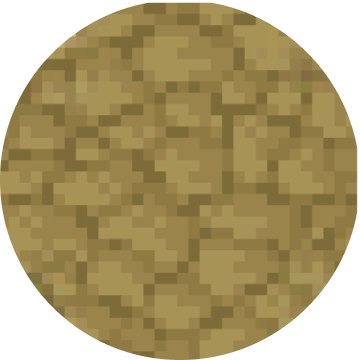
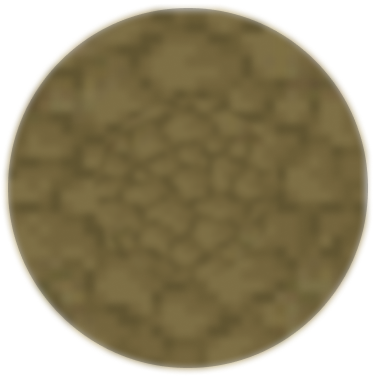
Animando char e background no menu. transiçao funfou

diff --git a/TheBlindMaze.playground/Sources/MenuScene.swift b/TheBlindMaze.playground/Sources/MenuScene.swift
@@ -2,15 +2,136 @@ import Foundation
 import SpriteKit
 
 public class MenuScene: SKScene{
-
-    let menuBackground = SKSpriteNode(imageNamed: "MenuBackground.png")
     
+    let menuBackground = SKSpriteNode(imageNamed: "MenuBackground.png")
+    var changeBackground: [SKTexture] = []
+    
+    let nameLabel = SKLabelNode()
+    
+    let startButton = SKShapeNode()
+    let startButtonLabel = SKLabelNode()
+    
+    var char = SKSpriteNode(imageNamed: "CharLeft1.png")
+    var charWalk: [SKTexture] = []
     
     override public func didMove(to view: SKView) {
-
+        super.didMove(to: view)
+        
+        self.menuBackground.scale(to: CGSize(width: 700, height: 625))
+        self.menuBackground.anchorPoint = CGPoint(x:0, y:0)
+        self.menuBackground.position = CGPoint(x:0, y:0)
+        self.addChild(menuBackground)
+        
+        self.char.scale(to: CGSize(width: 90, height: 90))
+        self.char.anchorPoint = CGPoint(x:0, y:0)
+        self.char.position = CGPoint(x: 5, y: 110)
+        self.addChild(char)
+        
+        createLabel()
+        createButton()
+        animateChar()
+        animateBackground()
         
     }
     
+    override public func touchesEnded(_ touches: Set<UITouch>, with event: UIEvent?) {
+        let touch = touches.first
+        let touchLocation = touch!.location(in: self)
+        
+        if self.startButton.contains(touchLocation) {
+            let sceneMoveTo = GameScene(size: self.size)
+            sceneMoveTo.scaleMode = self.scaleMode
+            
+            let transition = SKTransition.moveIn(with: .down, duration: 0.3)
+            self.scene?.view?.presentScene(sceneMoveTo ,transition: transition)
+            
+        }
+        
+    }
     
+    func createLabel(){
+        let paragraphStyle = NSMutableParagraphStyle()
+        paragraphStyle.alignment = .center
+        paragraphStyle.lineBreakMode = .byWordWrapping
+        
+        let pixeledFont = UIFont(name: "Pixeled", size: 50)
+        
+        let nameString = NSMutableAttributedString(string: "THE BLIND MAZE", attributes: [NSMutableAttributedString.Key.font : pixeledFont ?? UIFont.systemFont(ofSize: 50, weight: .ultraLight), .foregroundColor: #colorLiteral(red: 0.6000000238, green: 0.6000000238, blue: 0.6000000238, alpha: 1)])
+        
+        self.nameLabel.attributedText = nameString
+        self.nameLabel.position = CGPoint(x: self.frame.midX, y: self.frame.midY)
+        self.addChild(nameLabel)
+        
+    }
+    
+    func createButton(){
+        let pixeledFont = UIFont(name: "Pixeled", size: 20)
+
+        let startButtonString = NSMutableAttributedString(string: "START", attributes: [NSMutableAttributedString.Key.font : pixeledFont ?? UIFont.systemFont(ofSize: 20, weight: .ultraLight), .foregroundColor : #colorLiteral(red: 1.0, green: 1.0, blue: 1.0, alpha: 1.0)])
+        
+        self.startButton.path = UIBezierPath(roundedRect: CGRect(x: 0, y: 0, width: 200, height: 50), cornerRadius: 20).cgPath
+        self.startButton.position = CGPoint(x:self.frame.midX - 100, y:self.frame.midY - 300)
+        self.startButton.fillColor = .black
+        self.startButton.lineWidth = 1
+        self.startButton.strokeColor = #colorLiteral(red: 0.6000000238, green: 0.6000000238, blue: 0.6000000238, alpha: 1)
+        
+        self.startButtonLabel.attributedText = startButtonString
+        self.startButtonLabel.position = CGPoint(x: startButton.frame.midX, y: startButton.frame.midY - 15)
+        
+        self.addChild(startButton)
+        self.addChild(startButtonLabel)
+    }
+    
+    func animation(prefix1: String, prefix2: String, ids: [Int]) -> [SKTexture]{
+        
+        var frames: [SKTexture] = []
+        
+        for i in ids {
+            let pose = SKTexture(imageNamed: "\(prefix1)\(i)")
+            frames.append(pose)
+        }
+        
+        for i in ids {
+            let pose = SKTexture(imageNamed: "\(prefix2)\(i)")
+            frames.append(pose)
+        }
+        
+        return frames
+        
+    }
+    
+    func animateChar(){
+        
+        let ids = [1,2,1,3,1,2,1,3,1,2,1,3,1,2,1,3,1,2,1,3,1,2,1,3,1,2,1,3,1,2,1,3]
+                
+        self.charWalk = animation(prefix1: "CharRight", prefix2: "CharLeft", ids: ids)
+        
+        self.char.scale(to: CGSize(width: 90, height: 90))
+        
+        let toRight = SKAction.moveTo(x: 705, duration: 4.0)
+        
+        let toLeft = SKAction.moveTo(x: -95, duration: 4.0)
+        
+        let sequence = SKAction.sequence([toRight, toLeft])
+        
+        let runForever = SKAction.repeatForever(sequence)
+                
+        self.char.run(runForever)
+        self.char.run(SKAction.repeatForever(SKAction.animate(with: self.charWalk, timePerFrame: 0.125, resize: false, restore: true)))
+        
+    }
+    
+    func animateBackground(){
+        
+        var frames: [SKTexture] = []
+        
+        frames.append(SKTexture(imageNamed: "MenuBackground.png"))
+        frames.append(SKTexture(imageNamed: "MenuBackgroundBlackout.png"))
+        
+        self.changeBackground = frames
+        
+        self.menuBackground.run(SKAction.repeatForever(SKAction.animate(with: self.changeBackground, timePerFrame: 4.0, resize: false, restore: true)))
+    
+    }    
     
 }

diff --git a/TheBlindMaze.playground/Sources/GameScene.swift b/TheBlindMaze.playground/Sources/GameScene.swift
@@ -23,6 +23,8 @@ public class GameScene: SKScene{
     var column = 0
     
     override public func didMove(to view: SKView) {
+        super.didMove(to: view)
+        
         matrix.map = Matrix.firstLevel()
         
         self.blackoutMap.scale(to: CGSize(width: 700, height: 625))
@@ -183,9 +185,7 @@ public class GameScene: SKScene{
             self.char.run(toLeft)
             
             self.char.texture = SKTexture(imageNamed: "CharLeft1.png")
-            
             self.ground.run(toLeft)
-
 
         }
     }

diff --git a/TheBlindMaze.playground/Contents.swift b/TheBlindMaze.playground/Contents.swift
@@ -11,7 +11,10 @@ let frame = CGRect(x:0, y:0, width: 700, height: 625)
 
 var gameScene = GameScene(size: frame.size)
 let view = SKView(frame: frame)
-view.presentScene(gameScene)
+//view.presentScene(gameScene)
+
+var menu = MenuScene(size: frame.size)
+view.presentScene(menu)
 
 // Present the view controller in the Live View window
 PlaygroundPage.current.liveView = view
